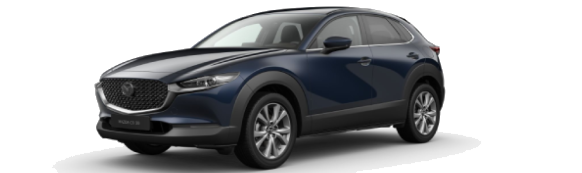
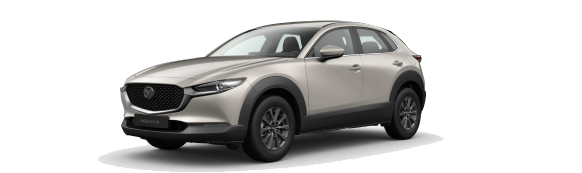
The configurator now changes depending on model clicked

diff --git a/Styles/modelConfig.css b/Styles/modelConfig.css
@@ -46,7 +46,6 @@ h2{
   }
   
   .sidebar a {
-    padding: 8px 8px 8px 32px;
     text-decoration: none;
     font-size: 25px;
     color: #000000;
@@ -59,11 +58,9 @@ h2{
   }
   
   .sidebar .closebtn {
-    position: absolute;
-    top: 0;
-    right: 25px;
+    position: relative;
     font-size: 36px;
-    margin-left: 50px;
+    left: 95%;
   }
   
   .openbtn {

diff --git a/modeloverview.php b/modeloverview.php
@@ -36,7 +36,7 @@
                         <img class="cardWidth" src="Images/MX-5.png" />
                         <div class="underpicture">
                             <article>Fra 339.500 kr</article>
-                            <a href="modelconfig.php">
+                            <a href="modelconfig.php?model=Images\MazdaMX5RFConfig.jpg">
                                 <button style="width: 100px;" class="btn buildButton">Byg</button>
                             </a>
                         </div>
@@ -61,7 +61,7 @@
                         <img class="cardWidth" src="Images/mazda2.png" />
                         <div class="underpicture">
                             <article>Fra 159.000 kr</article>
-                            <a href="modelconfig.php">
+                            <a href="modelconfig.php?model=Images\Mazda2Config.jpg">
                                 <button style="width: 100px;" class="btn buildButton">Byg</button>
                             </a>
                         </div>
@@ -86,7 +86,7 @@
                         <img class="cardWidth" src="Images/Mazda2Hybrid.png" />
                         <div class="underpicture">
                             <article>Fra 197.000 kr</article>
-                            <a href="modelconfig.php">
+                            <a href="modelconfig.php?model=Images\Mazda2HybridConfig.jpg">
                                 <button style="width: 100px;" class="btn buildButton">Byg</button>
                             </a>
                         </div>
@@ -115,7 +115,7 @@
                         <img class="cardWidth" src="Images/Mazda3H.png" />
                         <div class="underpicture">
                             <article>Fra 255.000 kr</article>
-                            <a href="modelconfig.php">
+                            <a href="modelconfig.php?model=Images\Mazda3HConfig.jpg">
                                 <button style="width: 100px;" class="btn buildButton">Byg</button>
                             </a>
                         </div>
@@ -140,7 +140,7 @@
                         <img class="cardWidth" src="Images/Mazda3S.png" />
                         <div class="underpicture">
                             <article>Fra 255.000 kr</article>
-                            <a href="modelconfig.php">
+                            <a href="modelconfig.php?model=Images\Mazda3SConfig.jpg">
                                 <button style="width: 100px;" class="btn buildButton">Byg</button>
                             </a>
                         </div>
@@ -162,7 +162,7 @@
                         <img class="cardWidth" src="Images/Mazda6ST.png" />
                         <div class="underpicture">
                             <article>Fra 375.000 kr</article>
-                            <a href="modelconfig.php">
+                            <a href="modelconfig.php?model=Images\Mazda6STConfig.jpg">
                                 <button style="width: 100px;" class="btn buildButton">Byg</button>
                             </a>
                         </div>
@@ -186,7 +186,7 @@
                         <img class="cardWidth" src="Images/Mazda6SE.png" />
                         <div class="underpicture">
                             <article>Fra 365.000 kr</article>
-                            <a href="modelconfig.php">
+                            <a href="modelconfig.php?model=Images\Mazda6SEConfig.jpg">
                                 <button style="width: 100px;" class="btn buildButton">Byg</button>
                             </a>
                         </div>
@@ -211,7 +211,7 @@
                         <img class="cardWidth" src="Images/CX-30.png" />
                         <div class="underpicture">
                             <article>Fra 270.000 kr</article>
-                            <a href="modelconfig.php">
+                            <a href="modelconfig.php?model=Images\MazdaCX30Config.jpg">
                                 <button style="width: 100px;" class="btn buildButton">Byg</button>
                             </a>
                         </div>
@@ -236,7 +236,7 @@
                         <img class="cardWidth" src="Images/CX-5.png" />
                         <div class="underpicture">
                             <article>Fra 310.000 kr</article>
-                            <a href="modelconfig.php">
+                            <a href="modelconfig.php?model=Images\MazdaCX5Config.jpg">
                                 <button style="width: 100px;" class="btn buildButton">Byg</button>
                             </a>
                         </div>

diff --git a/modelconfig.php b/modelconfig.php
@@ -80,15 +80,23 @@
         </div>
         <div class="row">
             <div class="col d-flex justify-content-center">
-                <img src="Images/Mazda2Config.jpg" alt="Mazda2" style="height: 80vh;">
+                <?php
+                if(isset($_GET["model"])){
+                    echo '<img src="'.$_GET["model"].'" style="height: 80vh;">';
+                }
+                else{
+                    echo '<img src="Images/Mazda2Config.jpg" alt="Mazda2" style="height: 80vh;">';
+                }
+                ?>
+                
             </div>
         </div>
 
     </div>
 
     <div id="mySidebar" class="sidebar">
-        <a href="javascript:void(0)" class="closebtn" onclick="closeNav()">×</a>
         <div class="col">
+            <a href="javascript:void(0)" class="closebtn" onclick="closeNav()">×</a>
 
             <!-- Motor selection -->
             <div class="card sidebarOption" onclick="closeNav()">
